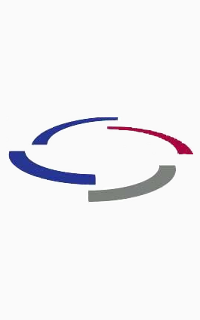
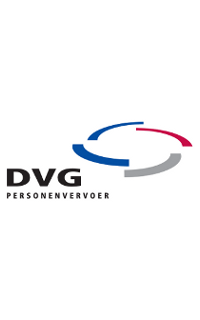
added graphics

Changed region(s): [[0.03, 0.3438, 0.96, 0.6562]]

diff --git a/www/js/testapp.js b/www/js/testapp.js
@@ -92,13 +92,15 @@ var App = (function() {
 			        }
                                
            menu = new joCard([ list = new joMenu([
-				           { title: "Nieuwe rit boeken",      id: "nieuwerit"    },
-                    			   { title: "Geboekte ritten", id: "geboekt" },
+				           { title: "<img src='/images/icons/Plus.png' style='height:40px;vertical-align:middle'>&nbsp;&nbsp;&nbsp;Nieuwe rit boeken",      id: "nieuwerit"    },
+                    			   { title: "<img src='/images/icons/Doc.png' style='height:40px;vertical-align:middle'>&nbsp;&nbsp;&nbsp;Geboekte ritten", id: "geboekt" },
  				           //{ title: "testlijst", id: "myCard" },
 //				           { title: "Ritoverzicht",           id: "ritoverzicht" },
-				           { title: "Mijn gegevens",          id: "instellingen" }
+                    			   { title: "<img src='/images/icons/Tools.png' style='height:40px;vertical-align:middle'>&nbsp;&nbsp;&nbsp;Mijn gegevens", id: "instellingen" },
+				           { title: "<img src='/images/icons/Info.png' style='height:40px;vertical-align:middle'>&nbsp;&nbsp;&nbsp;Over deze app",          id: "infoscherm" }
+ 				           //{ title: "testlijst", id: "myCard" },
 			                         ])
-		             ]).setTitle("Hoofdmenu");
+		             ]).setTitle("<img src='/images/icons/Home.png' style='height:30px;vertical-align:middle'>&nbsp;&nbsp;&nbsp;Hoofdmenu");
 	   menu.activate = function() { // maybe this should be built into joMenu...
 			                list.deselect();
 		                      };
@@ -109,7 +111,7 @@ var App = (function() {
 				new joFlexcol([
 					nav = new joNavbar(),
 					stack = new joStackScroller().push(menu),
-					toolbar = new joToolbar("DVG personenvervoer")
+					toolbar = new joToolbar("<img src='/images/bottomlogo-dvg.png'>")
 				])
 			])
 		);
@@ -124,6 +126,22 @@ var App = (function() {
 		});
 		
 	   var ex;
+
+//infologo-dvg.png	   
+           // Informatie scherm
+	   infoscherm = new joCard([
+			   new joGroup([
+			      new joHTML('<div style="text-align:center;"><img style="width:300px;" src="/images/infologo-dvg.png"></div><h1>Zittend ZiekenVervoer App</h1>Met deze app kunt u ritten boeken voor zittend ziekenvervoer zolang u een geldige machtiging hiervoor heeft. Deze ritten worden vergoed door de volgende ziektekostenverzekeraars:<ul><li>Verzekeraar X</li><li>Andere verzekeraar</li><li>Derde verzekeraar</li></ul>')
+				       ]),
+			          new joFooter([
+				     new joDivider(),
+				     button = new joButton("OK").selectEvent.subscribe(function()
+					       {
+						    stack.pop();
+					       })
+			                       ])
+		               ]).setTitle("<img src='/images/icons/Info.png' style='height:30px;vertical-align:middle'>&nbsp;&nbsp;&nbsp;Over deze app");
+
 
            // Instellingen scherm
 	   instellingen = new joCard([
@@ -143,7 +161,7 @@ var App = (function() {
 				  ]),
 			          new joFooter([
 				     new joDivider(),
-				     button = new joButton("Opslaan & inloggen").selectEvent.subscribe(function()
+				     button = new joButton("OK").selectEvent.subscribe(function()
 					       {
 						 var response = AjaxCall('http://tcrcentrale.netshaped.net/10/login/check/'+instelrecord.getProperty("pasnummer")+'/'+instelrecord.getProperty("pwd"))
 						 var jsObject = JSON.parse(response);
@@ -151,8 +169,6 @@ var App = (function() {
 						  {
 				                    instelrecord.setProperty("userhash",jsObject.userhash);
   				                    StuurQuery('update instellingen set waarde="'+jsObject.userhash+'" where veld="userhash"',db);
-						    laadMachtigingen(instelrecord.getProperty("pasnummer"),jsObject.userhash) //refresh ritten
-						    laadRitten(instelrecord.getProperty("pasnummer"),jsObject.userhash) //refresh ritten
 						    stack.pop();
 						  }
 						 else
@@ -171,7 +187,7 @@ var App = (function() {
 						 instelrecord.setProperty('notifyme',"");
 					       })
 			          ])
-		               ]).setTitle("Mijn gegevens");
+		               ]).setTitle("<img src='/images/icons/Tools.png' style='height:30px;vertical-align:middle'>&nbsp;&nbsp;&nbsp;Mijn gegevens");
 
 		instellingen.activate = function() {
 			instelrecord.setAutoSave(true); //zodra deze card geactiveerd wordt de autosave aanzetten. Vooraf is e.e.a. ingeladen vanuit database
@@ -290,13 +306,13 @@ var App = (function() {
 	   var hulpmiddelbutton;
 	   nieuwerit = new joCard([
 		          new joGroup([
-                
+                                new joHTML('<div id="progress" style="z-index:1000;display:none;"><div style="position:absolute;top:0px;left:0px;right:0px;bottom:0px;width:100%;height:100%;background-color:black;z-index:900;filter:alpha(opacity=60);opacity:.6;"></div><img src="/images/loader.png" class="loadingimage"></div>'),
                                 new joLabel("Vertrek adres"),
 				vertrekbutton = new joButton(ritrecord.link("vertrekadres")).selectEvent.subscribe(function()
 				     {
 					stack.push(vertrekadresselect)
 				     }),
-				new joLabel("Aankomst adres"),
+				new joLabel("Aankomst adres <img src='/images/icons/Redo.png' style='height:20px;vertical-align:middle;position:absolute;left:50%;margin-top:-5px;margin-left:10px;'>"),
 				aankomstbutton = new joButton(ritrecord.link("aankomstadres")).selectEvent.subscribe(function()
 				     {
 					stack.push(aankomstadresselect)
@@ -323,16 +339,15 @@ var App = (function() {
 			        new joFooter([
 				     new joDivider(),
 				     button = new joButton("OK").selectEvent.subscribe(function()
-					             {
-							var msg = VerstuurRit();
-							//stack.pop();
-                                                     }),
+				      {  joDOM.get("progress").style.display="block";
+					 var msg = VerstuurRit();
+                                      }),
 				     backbutton = new joButton("Annuleren").selectEvent.subscribe(function()
 					             {
 							stack.pop();
                                                      })
 				     ])
-				]).setTitle("Nieuwe rit boeken");
+				]).setTitle("<img src='/images/icons/Plus.png' style='height:30px;vertical-align:middle'>&nbsp;&nbsp;&nbsp;Nieuwe rit boeken");
 
 		nieuwerit.activate = function() {
 //			ritrecord.setAutoSave(true); //zodra deze card geactiveerd wordt de autosave aanzetten. Vooraf is e.e.a. ingeladen vanuit database
@@ -401,7 +416,7 @@ var App = (function() {
 							stack.pop();
                                                      })
 				     ])
-		               ]).setTitle("Vertrekadres selecteren");
+		               ]).setTitle("<img src='/images/icons/Magnifier.png' style='height:30px;vertical-align:middle'>&nbsp;&nbsp;&nbsp;Vertrekadres selecteren");
 
 	        var nieuweritdl = new joSQLDataSource(jodb); //data source voor jolist queries etc
 	        nieuweritdl.changeEvent.subscribe(function(data) { vvadressel.setData(data);  });
@@ -488,7 +503,7 @@ var App = (function() {
 							stack.pop();
                                                      })
 				     ])
-		               ]).setTitle("Aankomstadres selecteren");
+		               ]).setTitle("<img src='/images/icons/Magnifier.png' style='height:30px;vertical-align:middle'>&nbsp;&nbsp;&nbsp;Aankomstadres selecteren");
 
 	        var nieuweritadl = new joSQLDataSource(jodb); //data source voor jolist queries etc
 	        nieuweritadl.changeEvent.subscribe(function(data) { toadressel.setData(data);  });
@@ -597,7 +612,7 @@ var App = (function() {
 				new joButton("Terug").selectEvent.subscribe(function() {
 					stack.pop();
 				}, this)
-			]).setTitle("Tijdstip selecteren");			       
+			]).setTitle("<img src='/images/icons/At.png' style='height:30px;vertical-align:middle'>&nbsp;&nbsp;&nbsp;Tijdstip selecteren");			       
 
 
 
@@ -615,7 +630,7 @@ var App = (function() {
 		   	   stack.pop();
                          })
 		                 ])
-                   ]).setTitle("Geboekte ritten");
+                   ]).setTitle("<img src='/images/icons/Doc.png' style='height:30px;vertical-align:middle'>&nbsp;&nbsp;&nbsp;Geboekte ritten");
 
 	        var overzichtritdl = new joSQLDataSource(jodb); //data source voor jolist queries etc
 	        overzichtritdl.changeEvent.subscribe(function(data) { ritoverzichtsel.setData(data);  });
@@ -679,6 +694,8 @@ var App = (function() {
 				stack.push(myCard);
 			else if (id == "ritoverzicht")
 				stack.push(ritoverzicht);
+			else if (id == "infoscherm")
+				stack.push(infoscherm);
 			else if (id == "popup")
 				scn.alert("Hello!", "Is this the popup you were looking for? This is a very simple one; you can put much more in a popup if you were inclined.", function() { list.deselect(); });
 			else if (id != "help")
@@ -895,9 +912,19 @@ var App = (function() {
 	function VerstuurRit()
 	 { //gebruik de ingevulde gegevens; verstuur ze naar de gateway; wacht het antwoord af
 	   var response = AjaxCall("http://tcrcentrale.netshaped.net/10/ritten/nieuw/"+instelrecord.getProperty("userhash")+"/"+instelrecord.getProperty("pasnummer")+"/"+ritrecord.getProperty("vertrekpostcode")+"/"+ritrecord.getProperty("vertrekhuisnummer")+"/"+ritrecord.getProperty("aankomstpostcode")+"/"+ritrecord.getProperty("aankomsthuisnummer")+"/"+ritrecord.getProperty("tijdstip")+"/"+ritrecord.getProperty("aantalpersonen")+"/"+ritrecord.getProperty("rolstoel")+"/"+ritrecord.getProperty("hulpmiddelen")+"/"+ritrecord.getProperty("terugbelnummer")+"/"+ritrecord.getProperty("vertrekplaats")+"/"+ritrecord.getProperty("aankomstplaats")+"/"+ritrecord.getProperty("vertrekstraat")+"/"+ritrecord.getProperty("aankomststraat"));
-           alert(response);		
-           laadRitten(instelrecord.getProperty("pasnummer"),instelrecord.getProperty("userhash")) //refresh ritten
-	   stack.pop();
+	   var jsObject = JSON.parse(response);
+	   if (jsObject.status==1)
+	    { //rit in orde
+  	      scn.alert("Reactie van centrale", "De rit is geboekt!", function() {  });
+              laadRitten(instelrecord.getProperty("pasnummer"),instelrecord.getProperty("userhash")) //refresh ritten
+    	      joDOM.get("progress").style.display="none";
+	      stack.pop();
+           }
+           else
+	    { //foutmelding vanaf server
+  	      scn.alert("Reactie van centrale", jsObject.error, function() {  });
+    	      joDOM.get("progress").style.display="none";
+	    }
 	 }
 	 
 	

diff --git a/www/css/testapp.css b/www/css/testapp.css
@@ -4,3 +4,33 @@
   -o-box-shadow: inset 0 0 5px rgba(0, 0, 0, 0.8);
   padding:5px;
  }
+ 
+ 
+div.ajaxloader
+ {
+    background-color:black;
+    top:0px;
+    left:0px;
+    right:0px;
+    bottom:0px;
+    opacity:0.5;
+    border:solid 5px red;
+    z-index:10000;
+ }
+ 
+.loadingimage {
+    z-index:1000;
+    position: absolute;
+    top: 50%;
+    left: 50%;
+    width: 150px;
+    height: 150px;
+    margin:-75px 0 0 -75px;
+    -webkit-animation:spin 4s linear infinite;
+    -moz-animation:spin 4s linear infinite;
+    animation:spin 4s linear infinite;
+}
+@-moz-keyframes spin { 100% { -moz-transform: rotate(360deg); } }
+@-webkit-keyframes spin { 100% { -webkit-transform: rotate(360deg); } }
+@keyframes spin { 100% { -webkit-transform: rotate(360deg); transform:rotate(360deg); }
+
